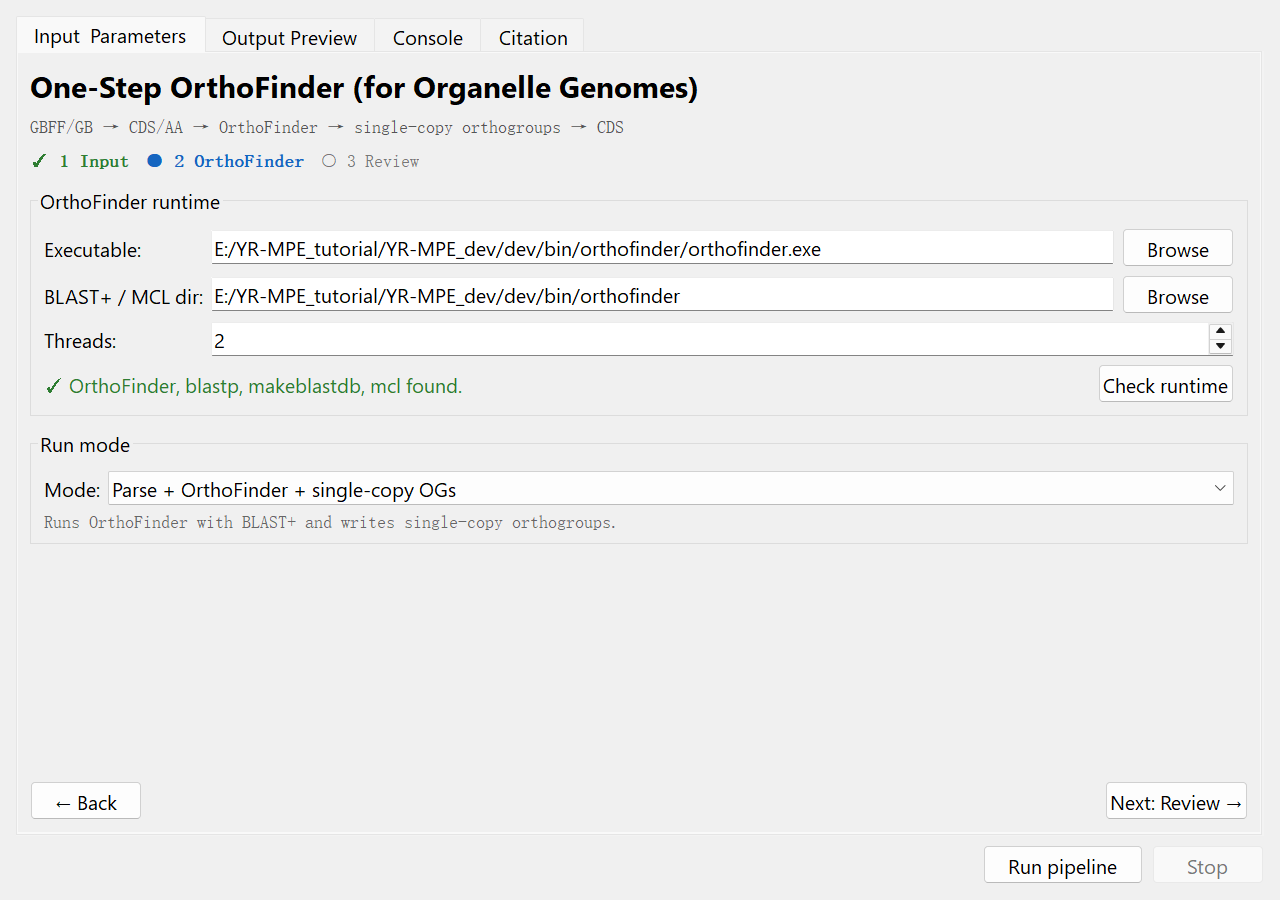
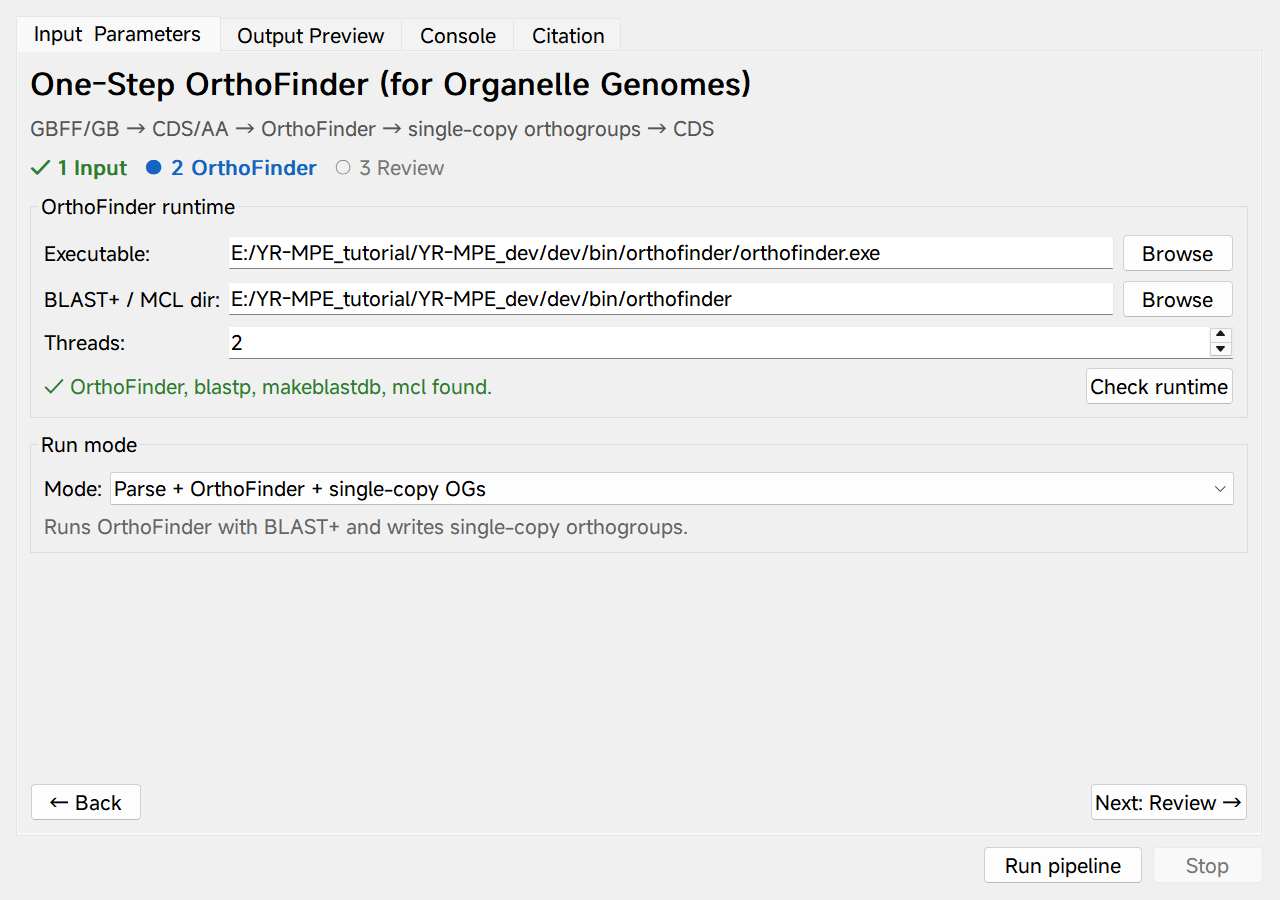
ui: inherit MiSans Medium from host; add message protocol draft
The plugin no longer forces Segoe UI. _ui_font now derives from QApplication.font(), so in YRTools it picks up MiSans Medium; render_panel.py loads the same TTF for screenshots. Add MESSAGE_PROTOCOL.md (JSONL schema v1, stream != level) as a proposal for the shared Console bus.

diff --git a/YR_MPE/plugins/orthofinder_plugin.py b/YR_MPE/plugins/orthofinder_plugin.py
@@ -29,9 +29,10 @@ from pathlib import Path
 
 from Bio import SeqIO
 from PyQt5.QtCore import Qt, QUrl, pyqtSignal
-from PyQt5.QtGui import QDesktopServices, QFont, QFontDatabase
+from PyQt5.QtGui import QDesktopServices, QFont
 from PyQt5.QtWidgets import (
     QAbstractItemView,
+    QApplication,
     QCheckBox,
     QComboBox,
     QFileDialog,
@@ -72,13 +73,11 @@ def _timestamp() -> str:
 
 
 def _ui_font(point_size: int = 10, bold: bool = False) -> QFont:
-    """Return a modern UI font, falling back to the platform general font."""
-    families = set(QFontDatabase().families())
-    family = "Segoe UI" if "Segoe UI" in families else QFontDatabase.systemFont(
-        QFontDatabase.GeneralFont
-    ).family()
-    font = QFont(family, point_size)
-    font.setBold(bold)
+    """Derive a font from the host application font (YRTools: MiSans Medium)."""
+    font = QFont(QApplication.font())
+    font.setPointSize(point_size)
+    if bold:
+        font.setBold(True)
     return font
 
 
@@ -327,15 +326,6 @@ class OrthoFinderPlugin(BasePlugin):
         self.analysis_thread = None
         super().__init__(import_from, import_data, **kwargs)
         self.run_button.setText("Run pipeline")
-
-    def init_ui(self):
-        # Use a modern UI font for the whole panel; on Chinese Windows the Qt
-        # default system font is SimSun (serif-like) and looks dated.
-        self.setFont(_ui_font(10))
-        super().init_ui()
-        if hasattr(self, "tab_widget"):
-            self.tab_widget.setFont(_ui_font(10))
-            self.tab_widget.tabBar().setFont(_ui_font(10))
 
     def init_plugin_info(self):
         self.plugin_name = "One-Step OrthoFinder (for Organelle Genomes)"

diff --git a/dev/gbff_to_orthofinder/render_panel.py b/dev/gbff_to_orthofinder/render_panel.py
@@ -9,6 +9,7 @@ from pathlib import Path
 os.environ.setdefault("QT_QPA_PLATFORM", "offscreen")
 
 from PyQt5.QtCore import Qt  # noqa: E402
+from PyQt5.QtGui import QFont, QFontDatabase  # noqa: E402
 from PyQt5.QtWidgets import QApplication  # noqa: E402
 
 QApplication.setAttribute(Qt.AA_ShareOpenGLContexts)
@@ -22,6 +23,17 @@ from YR_MPE.plugins.orthofinder_plugin import OrthoFinderPlugin  # noqa: E402
 
 def main() -> int:
     app = QApplication(sys.argv)
+    # Mirror YRTools: load MiSans Medium and use it as the application font.
+    font_path = Path("E:/Codes/YRTools/fonts/MiSans-Medium.ttf")
+    if font_path.exists():
+        font_id = QFontDatabase.addApplicationFont(str(font_path))
+        families = QFontDatabase.applicationFontFamilies(font_id) if font_id != -1 else []
+        if families:
+            app_font = QFont(families[0], 10)
+            app_font.setWeight(QFont.Medium)
+            app.setFont(app_font)
+            print("font:", app_font.toString())
+
     out_dir = HERE.parent / "screenshots"
     out_dir.mkdir(parents=True, exist_ok=True)
 

diff --git a/dev/gbff_to_orthofinder/MESSAGE_PROTOCOL.md b/dev/gbff_to_orthofinder/MESSAGE_PROTOCOL.md
@@ -1,0 +1,181 @@
+# YR-MPE / YRTools message protocol (v1 proposal)
+
+> Pilot: the One-Step OrthoFinder plugin. If it works here, promote the same
+> protocol to `BasePlugin` / `BaseProcessThread` and the YRTools Console.
+
+## Why
+
+Today plugins emit two different things:
+
+- `console_output(str, str)` — a free-form `(message, type)` pair.
+- ad-hoc `QMessageBox` dialogs and `print()` calls.
+
+That is hard to filter, replay, or aggregate across plugins. A single
+structured message queue gives the Console one source of truth, makes
+`stderr` a first-class semantic channel, and lets errors be handled by code
+instead of by dialog strings.
+
+## Core rule: stream ≠ level
+
+| Field | Meaning | Examples |
+|---|---|---|
+| `stream` | Where the bytes came from | `stdout`, `stderr`, `app`, `host` |
+| `level` | How severe the message is | `debug`, `info`, `notice`, `warning`, `error`, `fatal` |
+| `kind` | What the message represents | `log`, `progress`, `result`, `state`, `metric` |
+
+A line written by a tool to stderr is **`stream=stderr`**, but its default
+level is `warning`, not `error`. It becomes `error` only when the process
+exits nonzero, an exception is raised, or a known error pattern matches.
+Progress is **not** an error even if the tool prints it to stderr.
+
+## Message schema
+
+One JSON object per line (JSONL), UTF-8, no embedded newlines.
+
+```json
+{
+  "schema": "yrmpe.message.v1",
+  "id": "2f5c...",
+  "run_id": "20261102_211500_orthofinder",
+  "seq": 42,
+  "ts": "2026-11-02T21:15:03.123+08:00",
+  "source": "orthofinder",
+  "stream": "stderr",
+  "level": "warning",
+  "kind": "log",
+  "message": "WARNING: species name contains a dot",
+  "code": "ORTHOFINDER_SPECIES_NAME",
+  "context": {
+    "plugin": "one_step_orthofinder",
+    "tool": "OrthoFinder 2.5.5",
+    "command": ["orthofinder", "-f", "..."],
+    "input": "testdata/gb",
+    "output": "testdata/work"
+  },
+  "payload": {}
+}
+```
+
+Field rules:
+
+- `schema`: fixed `yrmpe.message.v1`; bump to `v2` on breaking changes.
+- `id`: UUID4 per message.
+- `run_id`: one per plugin run; used to group, replay, and link Console tabs.
+- `seq`: monotonic integer per run; ordering even if timestamps collide.
+- `ts`: ISO-8601 with timezone.
+- `source`: `orthofinder`, `blastp`, `makeblastdb`, `plugin`, `host`, ...
+- `stream`: `stdout|stderr|app|host`.
+- `level`: `debug|info|notice|warning|error|fatal`.
+- `kind`: `log|progress|result|state|metric`.
+- `message`: human-readable one-line text.
+- `code`: stable machine-readable code, e.g. `ORTHOFINDER_EXIT_1`,
+  `PLUGIN_EXCEPTION`, `MISSING_BLASTP`; optional for plain logs.
+- `context`: small dict (never large payloads); command, input, output, exit
+  code, tool version.
+- `payload`: structured data for `progress`/`result`/`metric`.
+
+## Message taxonomy
+
+| Event | stream | level | kind | payload |
+|---|---|---|---|---|
+| Tool stdout line | `stdout` | `info` | `log` | — |
+| Tool stderr line | `stderr` | `warning` by default; `error` on nonzero exit | `log` | — |
+| Plugin progress | `app` | `info` | `progress` | `{"current": 3, "total": 10}` |
+| Result summary | `app` | `info` | `result` | `{"species": 4, "cds": 335, ...}` |
+| State transition | `app` | `info` | `state` | `{"state": "running"}` |
+| Recoverable problem | `app`/`stderr` | `warning` | `log` | — |
+| Fatal error | `stderr`/`app` | `error`/`fatal` | `state` | `{"state": "failed"}` |
+| Metric | `app` | `info` | `metric` | `{"elapsed_s": 19.2}` |
+
+## API (pilot)
+
+```python
+from YR_MPE.runtime.messages import MessageBus
+
+bus = MessageBus(
+    run_id="20261102_211500_orthofinder",
+    sinks=[JsonlSink("workspace/logs/20261102_211500_orthofinder.jsonl"),
+           QtSignalSink(self.message_signal)],
+)
+
+bus.stdout("orthofinder", line)
+bus.stderr("orthofinder", line)
+bus.progress("plugin", current=3, total=10, label="Running BLAST")
+bus.result("plugin", {"species": 4, "cds": 335, "single_copy_ogs": 62})
+bus.state("plugin", "running")
+bus.error("plugin", "OrthoFinder exited 1", code="ORTHOFINDER_EXIT_1",
+          context={"exit_code": 1})
+```
+
+Implementation:
+
+- Core bus is **stdlib only** (`queue.Queue`, `json`, `uuid`, `datetime`).
+  It must work headless/CLI without PyQt.
+- `QtSignalSink` is a thin adapter (`pyqtSignal(object)`); the GUI consumes
+  dicts, not formatted strings.
+- Sinks are pluggable: JSONL file, Console ring buffer, pytest capture,
+  future YRTools host bus.
+- Bounded queue (`maxsize=10000`): if full, drop `debug`/`info` first and emit
+  a `memory.dropped` metric; never block a running tool.
+- The Console/UI is a **consumer**, not a writer. It renders:
+  `[stream badge] [level] source: message`, with filters for run_id/source/
+  stream/level/kind, copy/export, and a "stderr" badge that is not red unless
+  level is error.
+
+## Mapping existing code
+
+`BaseProcessThread.execute_command` currently emits
+`console_output(line, "output"|"error")`. Keep that for compatibility, but
+add an optional `message_bus`:
+
+```python
+if self.message_bus:
+    self.message_bus.stdout(self.get_tool_name(), line)
+else:
+    self.console_output.emit(line, "output")
+```
+
+`BasePlugin.add_console_message(message, type)` remains as a legacy adapter:
+
+```python
+if self.message_bus:
+    self.message_bus.log(level=..., stream=..., source="plugin", message=message)
+else:
+    self.console_output.emit(message, type)
+```
+
+That gives an incremental migration: new plugins use the bus; old plugins keep
+working; the Console can read JSONL from both.
+
+## Console / YRTools integration
+
+- **In-process**: YRTools Console subscribes to the global bus (same process)
+  and shows tabs/filters per `run_id`/`source`.
+- **Cross-process / replay**: tail the JSONL file under
+  `workspace/logs/<run_id>.jsonl`; the Console can open it directly.
+- **No raw `print()`** in new plugins; every user-visible line is a message.
+- **Dialogs**: a fatal error is a message with `level=error`/`fatal` and a
+  stable `code`; the plugin may show a dialog as a *view* of that message,
+  but the message is the source of truth.
+- **Progress**: `kind=progress` messages are coalesced by the UI (e.g. keep the
+  latest per `source`/`label`) to avoid flooding the queue.
+
+## Acceptance for the pilot
+
+- OrthoFinder stdout/stderr are both visible; stderr is not all red.
+- `run_id` groups one pipeline; JSONL replays the Console exactly.
+- A nonzero exit produces one `error`/`fatal` message with a code and exit
+  code, plus a final `state=failed`.
+- Legacy `console_output` plugins still work unchanged.
+- Unit tests: schema validation, seq ordering, JSONL round-trip, queue
+  backpressure, QtSignalSink (headless).
+
+## Open questions
+
+1. Should the bus live in `YR_MPE.runtime` (plugin package) or in YRTools
+   host? Proposal: start in `YR_MPE.runtime`, promote later.
+2. JSONL retention policy: per-run file, keep N days or N runs?
+3. Should `stderr` default to `warning` or `notice`? Proposal: `warning`, with
+   `error` escalation on nonzero exit/exception.
+4. Do we want a global `run_id` across chained YR-MPEA steps, or one per
+   plugin invocation? Proposal: one per plugin run, plus a `session_id` later.
